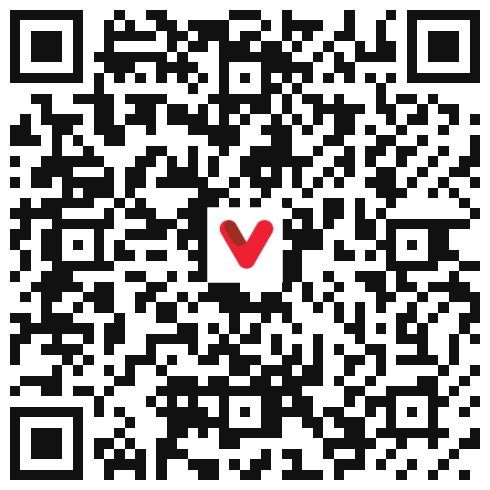
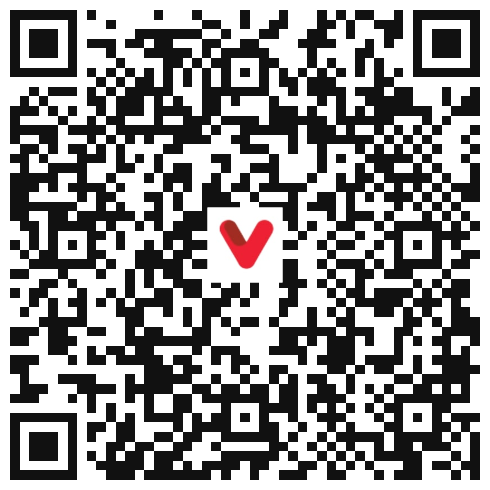
Switch donate to dedicated TPBank account with MIXIE EMPIRE memo

diff --git a/index.html b/index.html
@@ -147,17 +147,18 @@
       </div>
 
       <figure class="qr-card">
-        <div class="qr-head"><span class="qr-brand">VietQR</span><span class="qr-bank">MB Bank</span></div>
+        <div class="qr-head"><span class="qr-brand">VietQR</span><span class="qr-bank">TPBank</span></div>
         <img class="sticker-love" src="assets/deco/emoji-love.png" alt="" width="160" height="160" aria-hidden="true">
-        <img class="qr-img" src="assets/qr.png" data-i18n-attr="alt:donate.qr" alt="Mã QR chuyển khoản MB Bank" width="490" height="490">
+        <img class="qr-img" src="assets/qr.png" data-i18n-attr="alt:donate.qr" alt="Mã QR chuyển khoản TPBank" width="490" height="490">
         <figcaption>
           <p class="qr-scan" data-i18n="donate.scan"></p>
           <dl>
-            <div><dt data-i18n="donate.bank">Ngân hàng</dt><dd>MB Bank</dd></div>
+            <div><dt data-i18n="donate.bank">Ngân hàng</dt><dd>TPBank</dd></div>
             <div><dt data-i18n="donate.owner">Chủ tài khoản</dt><dd>NGUYEN VIET HOANG</dd></div>
-            <div><dt data-i18n="donate.account">Số tài khoản</dt><dd class="acc">0866903661</dd></div>
+            <div><dt data-i18n="donate.account">Số tài khoản</dt><dd class="acc">16807062005</dd></div>
+            <div><dt data-i18n="donate.memo">Nội dung</dt><dd>MIXIE EMPIRE</dd></div>
           </dl>
-          <button class="btn btn-copy" type="button" data-copy="0866903661">📋 <span data-i18n="donate.copy">Sao chép số TK</span></button>
+          <button class="btn btn-copy" type="button" data-copy="16807062005">📋 <span data-i18n="donate.copy">Sao chép số TK</span></button>
         </figcaption>
       </figure>
     </section>

diff --git a/script.js b/script.js
@@ -58,9 +58,10 @@ const I18N = {
     'donate.bank': 'Ngân hàng',
     'donate.owner': 'Chủ tài khoản',
     'donate.account': 'Số tài khoản',
+    'donate.memo': 'Nội dung',
     'donate.copy': 'Sao chép số TK',
     'copied': 'Đã sao chép ✓',
-    'donate.qr': 'Mã QR chuyển khoản MB Bank',
+    'donate.qr': 'Mã QR chuyển khoản TPBank',
     'donate.intl': 'Ủng hộ qua Ko-fi',
 
     'footer.made': 'Làm bằng 💗 bởi Monomee',
@@ -124,9 +125,10 @@ const I18N = {
     'donate.bank': 'Bank',
     'donate.owner': 'Account holder',
     'donate.account': 'Account number',
+    'donate.memo': 'Transfer note',
     'donate.copy': 'Copy account no.',
     'copied': 'Copied ✓',
-    'donate.qr': 'MB Bank transfer QR code',
+    'donate.qr': 'TPBank transfer QR code',
     'donate.intl': 'Support on Ko-fi',
 
     'footer.made': 'Made with 💗 by Monomee',
